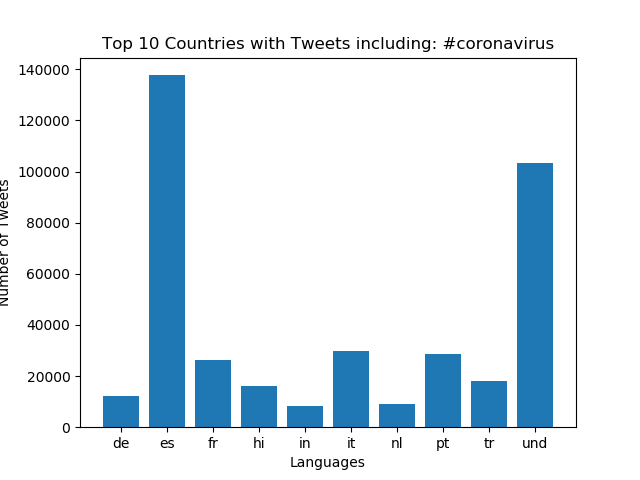
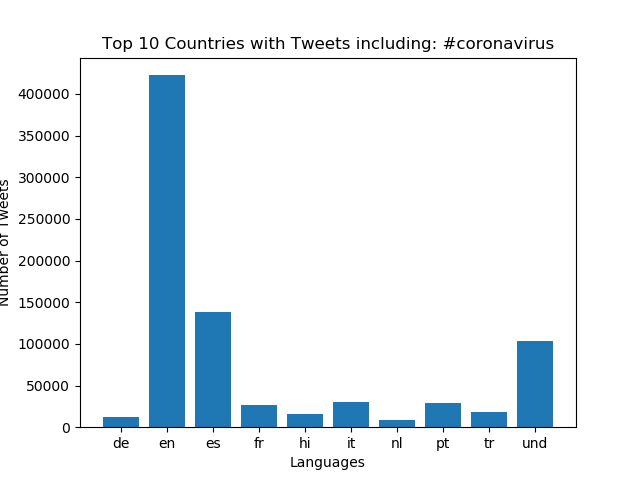
updated visualize

diff --git a/src/visualize.py b/src/visualize.py
@@ -28,15 +28,17 @@ if args.percent:
 
 # plot the count values
 items = sorted(counts[args.key].items(), key=lambda item: (item[1],item[0]), reverse=True)
-#print(items)
+#for k,v in items:
+ #   print(k, ':',v)
 
-top_ten = items[1:11]
+top_ten = sorted(items[:10], key=lambda x: x[1])
 countries = []
 values = []
 for country, value in top_ten:
     countries.append(country)
     values.append(value)
 
+#print(top_ten)
 plt.bar(countries, values)
 
 if args.input_path == "reduced.country":
